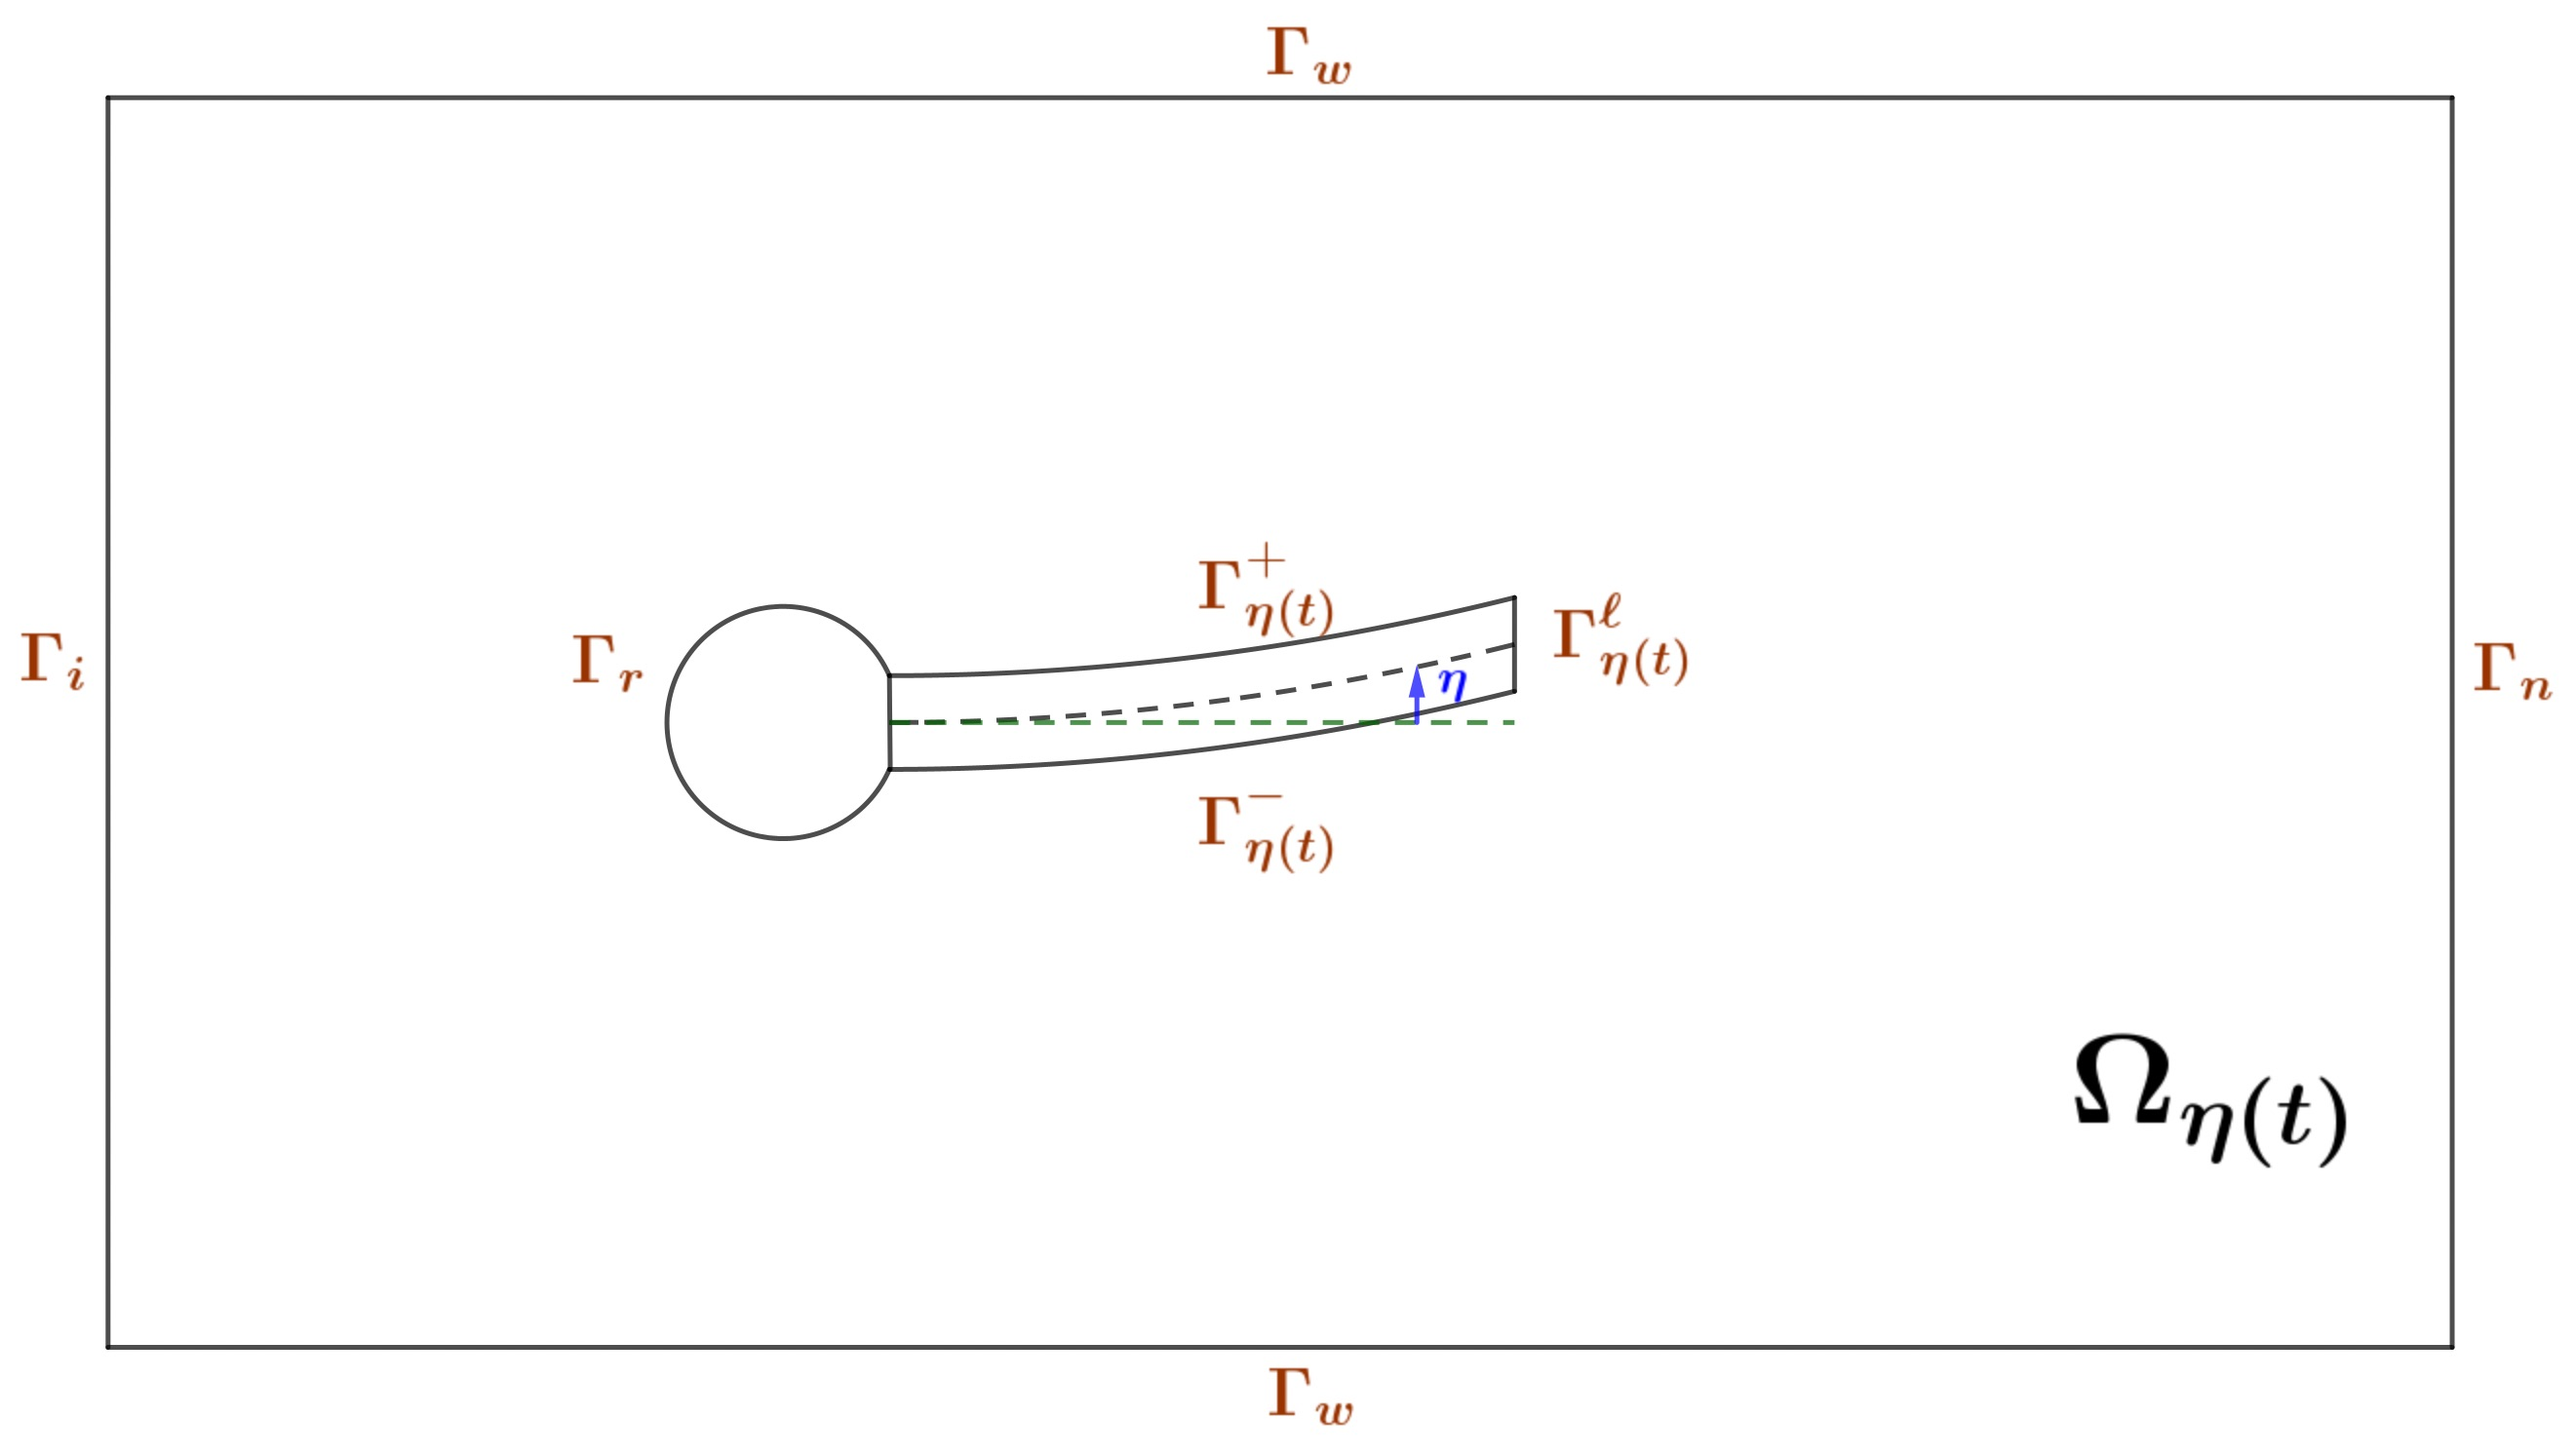
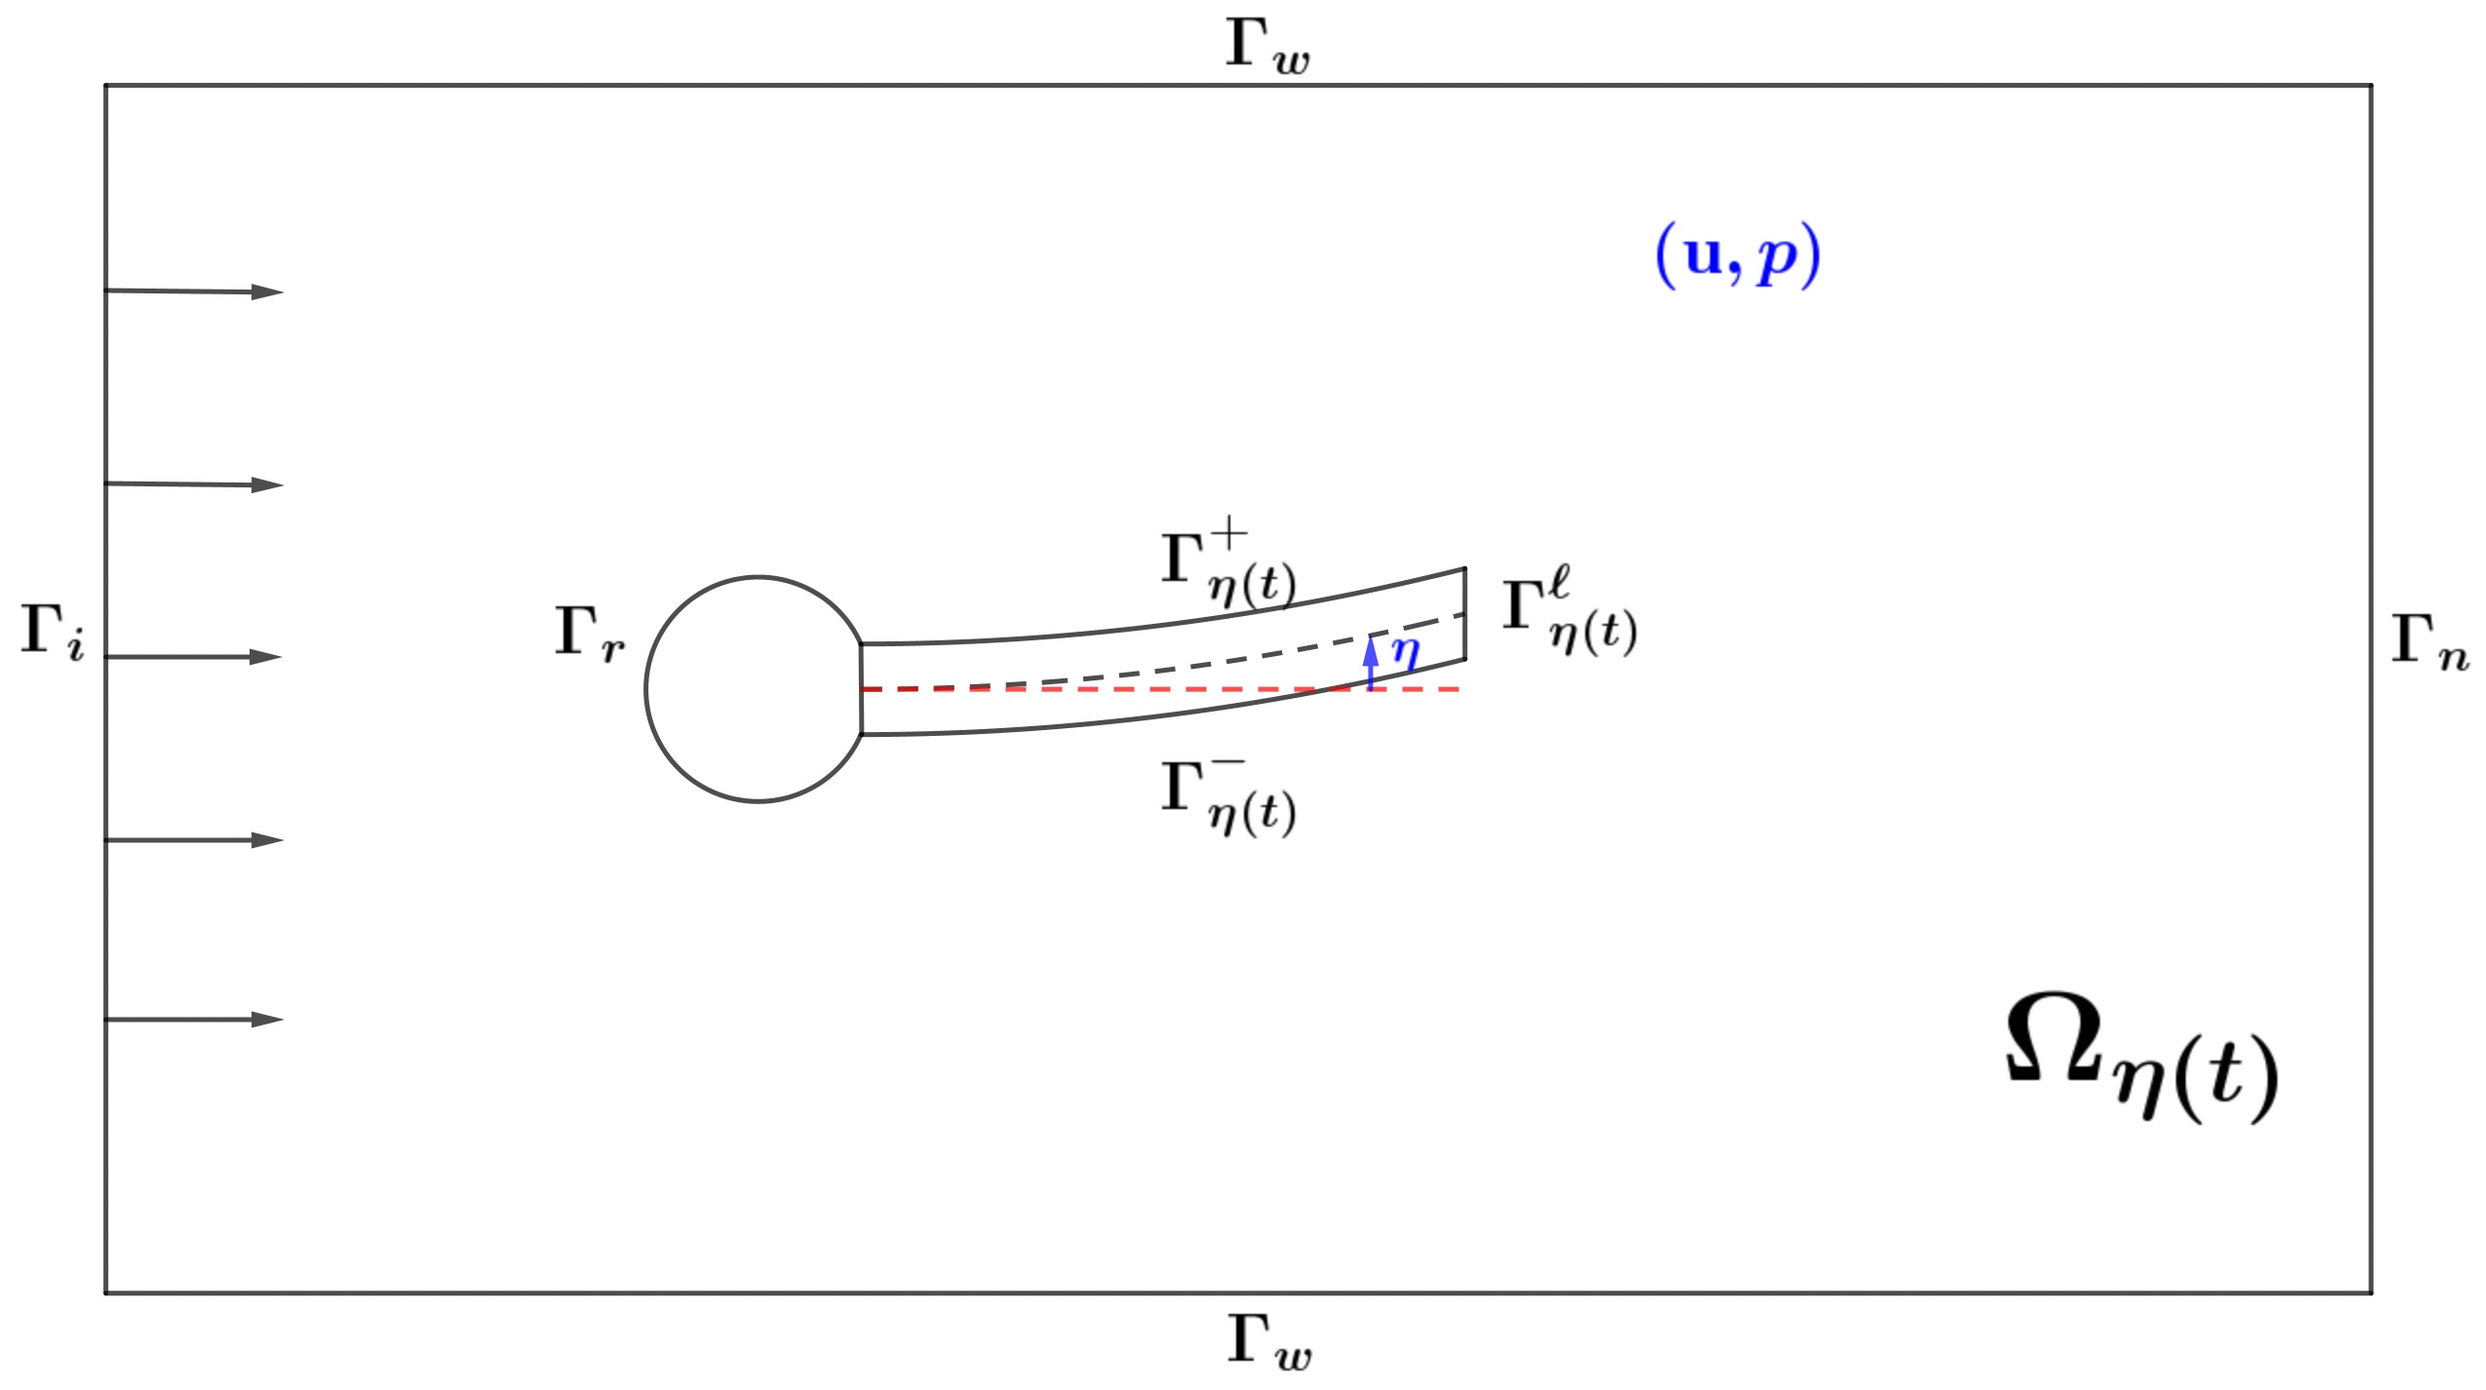
Update portfolio

diff --git a/_pages/portfolio.html b/_pages/portfolio.html
@@ -12,13 +12,13 @@ author_profile: true
 
 
 <p><u><h3>Context</h3></u></p>
-<p>We consider the fluid-structure interaction (FSI) system in which the fluid is governed by the two–dimensional incompressible Navier–Stokes equations with mixed boundary conditions, while the structure, immersed in the fluid, is modeled by the Euler–Bernoulli equations with damping, with one end clamped and the other free:<br>
+<p>We consider the fluid-structure interaction (FSI) system in which the fluid is governed by the incompressible Navier–Stokes equations in a two–dimensional domain with mixed boundary conditions, while the structure, immersed in the fluid, is modeled by the Euler–Bernoulli equations with damping, with one end clamped and the other free. The system is given by<br>
 \[\partial_t\mathbf{u} + (\mathbf{u}\cdot\nabla)\mathbf{u} - \text{div}\hspace{0.1cm}\sigma(\mathbf{u}, p)  = 0, 
 \hspace{0.2cm} \text{div}\hspace{0.1cm}\mathbf{u} = 0\hspace{0.2cm}\text{in}\hspace{0.1cm} Q_{\eta}^{\infty}:= \bigcup_{t\in(0,\infty)}\{t\}\times\Omega_{\eta(t)},\]
 \[\text{+ Mixed boundary condition + Initial condition + kinematic condition},\]
-\[\partial_t^2\eta + \alpha\Delta_s^2\eta + \gamma\Delta_s^2\eta_t = H(\mathbf{u}, p, \eta) + \textcolor{blue}{f} + f_s \hspace{0.2cm}\text{in}\hspace{0.1cm}(0,\infty)\times (0,\ell_s),\]
+\[\partial_t^2\eta + \alpha\Delta_s^2\eta + \gamma\Delta_s^2\eta_t = H(\mathbf{u}, p, \eta) + \textcolor{brown}{f} + f_s \hspace{0.2cm}\text{in}\hspace{0.1cm}(0,\infty)\times (0,\ell_s),\]
 \[\text{+ Boundary conditions + Initial condition},\]
-where \(\mathbf{u}\) and \(p\) represent the fluid velocity and the pressure, respectively, and \(\eta\) the displacement of the structure. Here, \(\sigma(\mathbf{u},p)\) represents the Cauchy stress tensor, \(H=H(\mathbf{u}, p, \eta)\) the force exerted by the fluid on the structure (acting on its upper and lower parts), \(\textcolor{blue}{f}\) is the control, and \(f_s\) a given constant force.<br><br>
+where \(\mathbf{u}\) and \(p\) represent the fluid velocity and the pressure, respectively, and \(\eta\) the displacement of the structure. Here, \(\sigma(\mathbf{u},p)\) represents the Cauchy stress tensor, \(H=H(\mathbf{u}, p, \eta)\) the force exerted by the fluid on the structure (acting on its upper and lower parts), \(\textcolor{brown}{f}\) is the control, and \(f_s\) a given constant force.<br><br>
 
 The geometrical configuration is shown in Fig. 1.</p>
 <br>
@@ -31,7 +31,7 @@ The geometrical configuration is shown in Fig. 1.</p>
 <p><u><h3>Numerical tests</h3></u></p>
 <p>In the numerical simulations shown below, we use a Reynolds number \(Re = 200\), a rigidy coefficient \(\alpha=10^{-1}\), and a damping coefficient \(\gamma=10^{-6}\).</p>
 
-<pr>Our objective is to stabilizes the FSI system around a stationary solution (Fig. 2 shows the magnitude of the stationary fluid velocity) by applying a force \(\textcolor{blue}{f}\) on the structure (control given in a feedback form).</pr>
+<pr>Our objective is to stabilizes the FSI system around a stationary solution (Fig. 2 shows the magnitude of the stationary fluid velocity) by applying a force \(\textcolor{brown}{f}\) on the structure (control given in a feedback form).</pr>
 
 <br>
 <p align="center">
